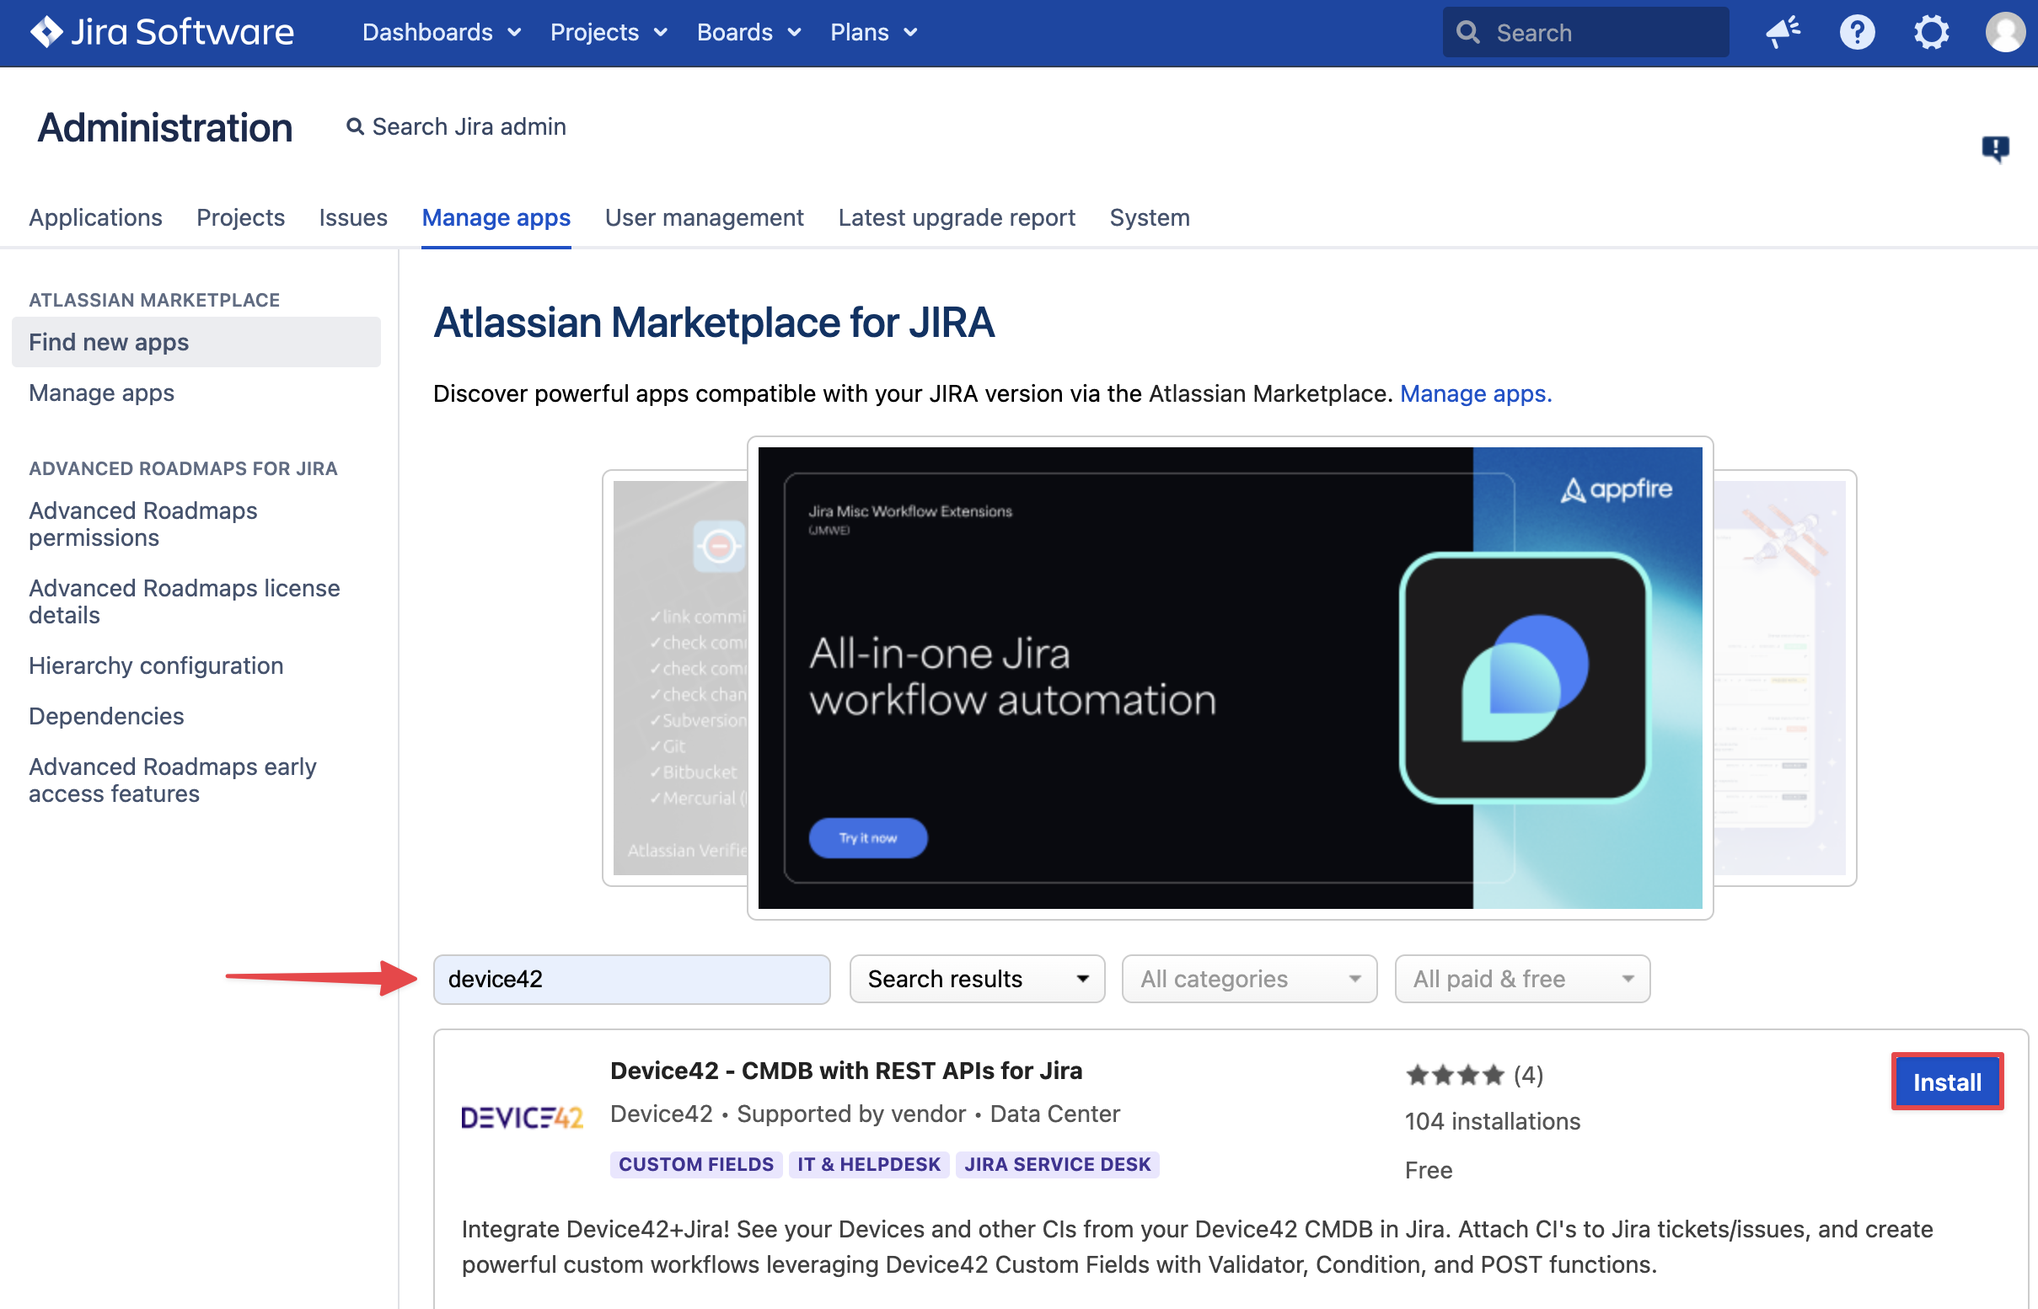
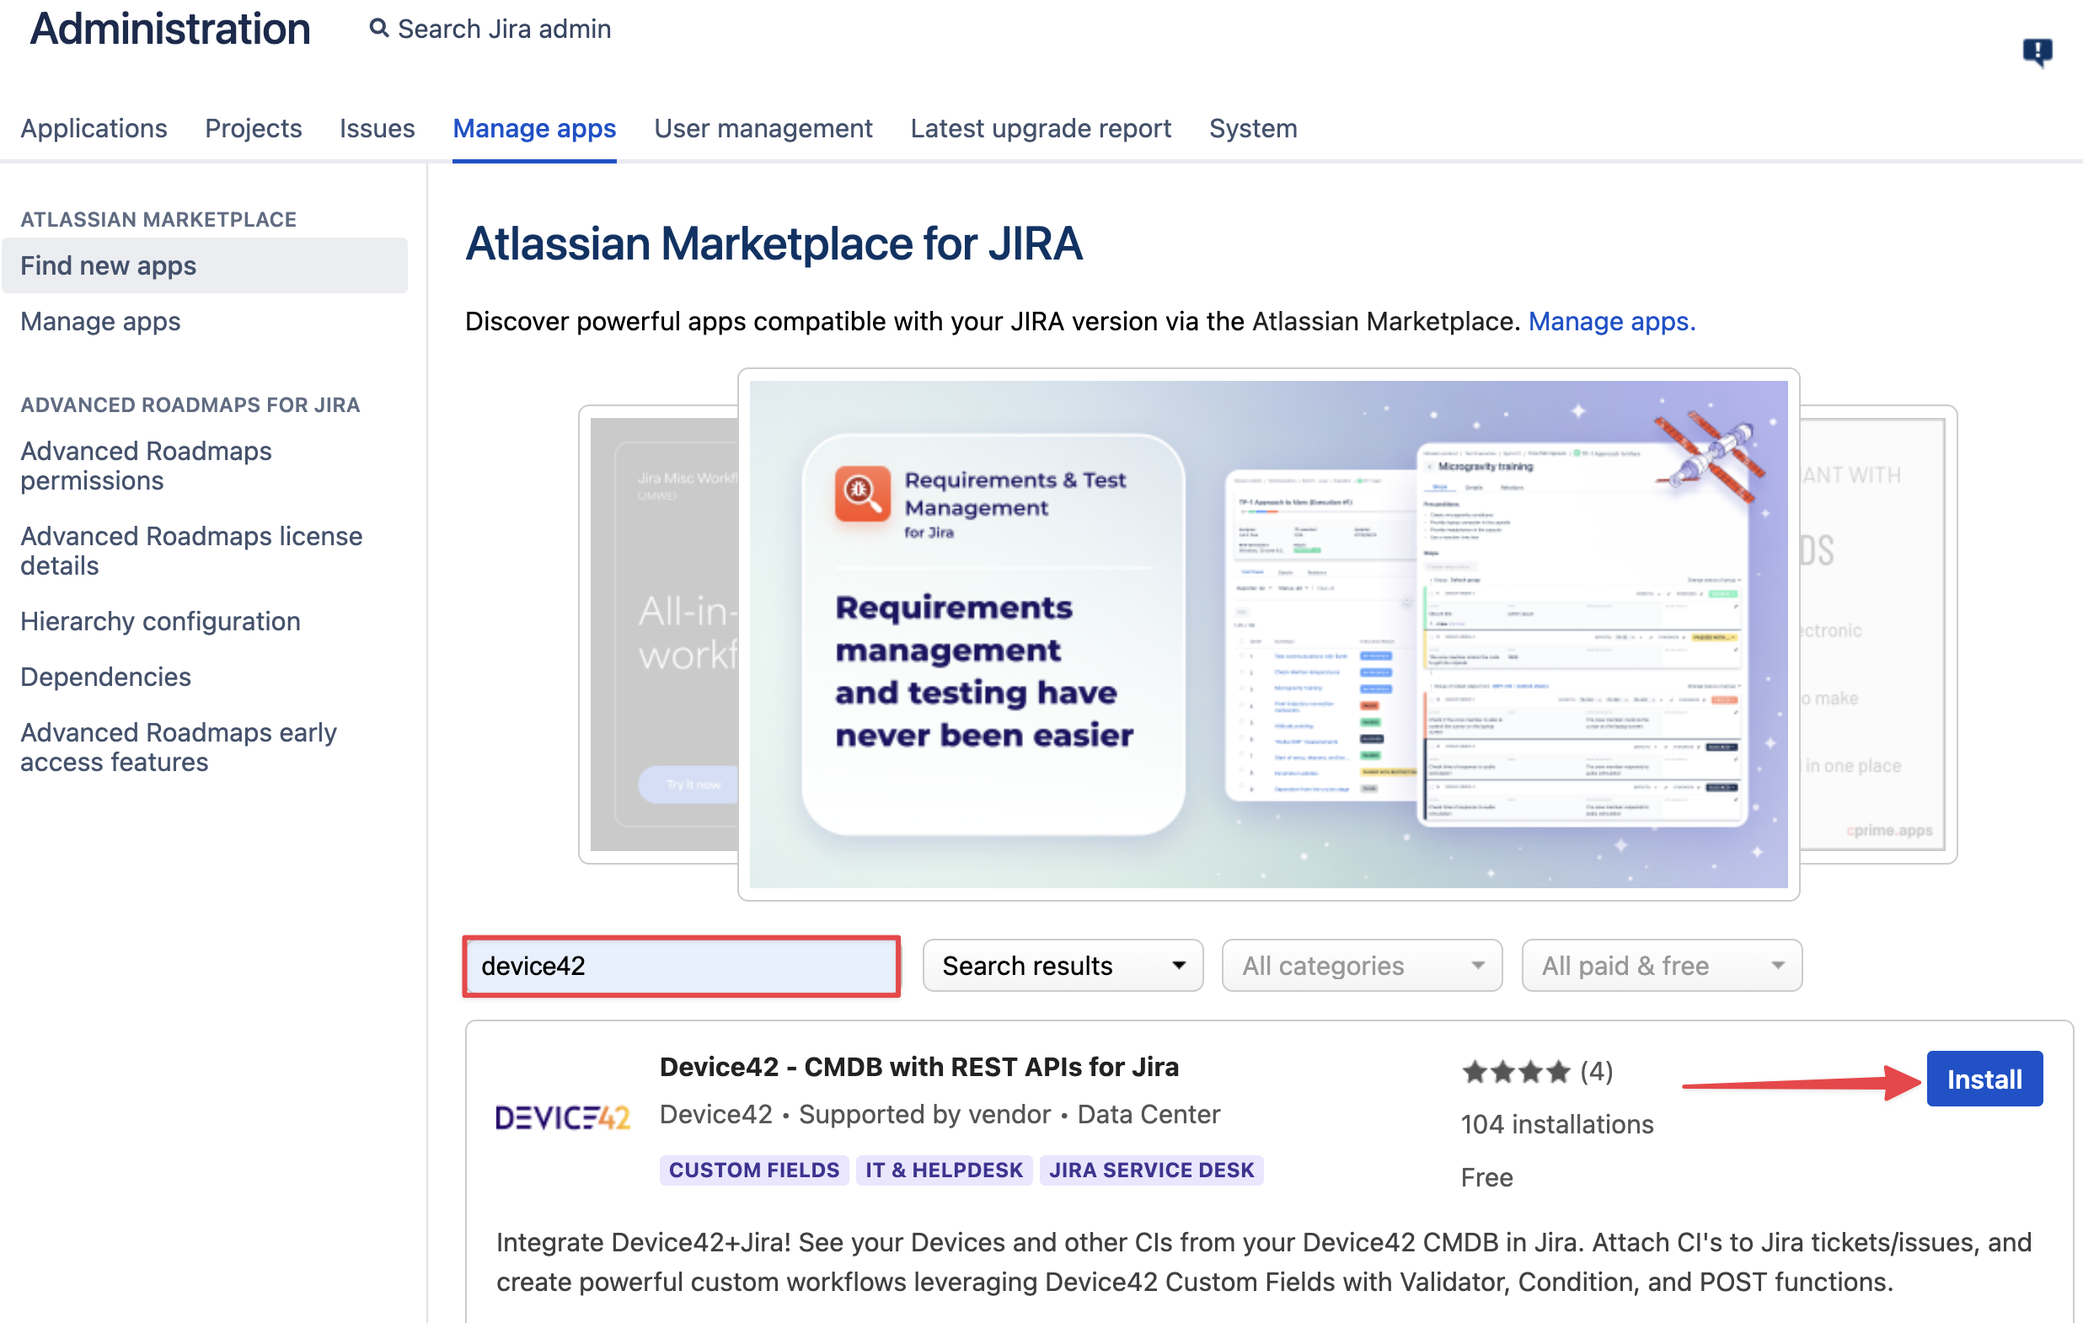
update images and of first two sections

diff --git a/docs/integration/external-integrations/device42-jira-integration.md b/docs/integration/external-integrations/device42-jira-integration.md
@@ -4,15 +4,15 @@ sidebar_position: 15
 ---
 
 :::info
-Atlassian Server is in the process of being [discontinued](https://www.atlassian.com/blog/platform/atlassian-server-is-going-away-next-steps) and the future of self-managed products is with [Atlassian Data Center](https://www.atlassian.com/enterprise/data-center).
+Atlassian Server is in the process of being [discontinued](https://www.atlassian.com/blog/platform/atlassian-server-is-going-away-next-steps) and the future of self-managed products is via the [Atlassian Data Center](https://www.atlassian.com/enterprise/data-center).
 :::
 
 ### Integration Prerequisites
 
-To use the Device42-Jira integration, users must have:
+To use the self-hosted Device42-Jira integration, users must have:
 
-- **Device42** virtual appliance, running, properly configured, and populated with CIs (to sync to Jira) 
-- **Jira instance _\[Server, self-hosted for this version\]_**, properly configured, with the Device42 plugin installed.
+* A running **Device42** virtual appliance, populated with configuration items (CIs) to sync to Jira.
+* A properly configured **self-hosted Jira instance** with administrator access.
 
 _*If you are looking to integrate Device42 with Jira Service Management and/or Jira Cloud, see the [Device42-Jira Service Management/Cloud integration page.](device42-jira-cloud-integration.mdx)_
 
@@ -20,145 +20,142 @@ _*If you are looking to integrate Device42 with Jira Service Management and/or J
 
 The Device42-Jira integration offers users the following functionality:
 
-- Synchronize select Device42 data with Jira, automatically (and/or manually)
-- Attach configuration items synced from Device42 to Jira issues
-- Search for Jira issues relating to a Device42 CI(s) and/or CI data
-- Create custom fields and apply them to specific projects, create custom field sets, and populate custom fields using built-in stackable filters to create a customized set of Device42 CIs.
-- Store filter templates for the fast future usage
-- Automate common IT workflow with validators and conditional functions, based on the Device42 custom field values
-- Automatically request the next free IP address on a subnet, and acquire it when an issue transitions
+* Synchronize select Device42 data with Jira, automatically (and/or manually)
+* Attach configuration items synced from Device42 to Jira issues
+* Search for Jira issues relating to a Device42 CI(s) and/or CI data
+* Create custom fields and apply them to specific projects, create custom field sets, and populate custom fields using built-in stackable filters to create a customized set of Device42 CIs.
+* Store filter templates for the fast future usage
+* Automate common IT workflow with validators and conditional functions, based on the Device42 custom field values
+* Automatically request the next free IP address on a subnet, and acquire it when an issue transitions
 
 * * *
 
 ## Installing the Device42 Jira add-on
 
-The Device42 add-on is the part of Atlassian Marketplace, so you can easily install it using the UPM \[Universal Plugin Manager\]. The add-on’s search capability is provided by Jira from the Jira search box. However, if you have some specific environment that blocks Jira from access to the internet it is possible to install Device42 plugin manually. Please note that the plugin requires a stable connection between the server hosting your Jira application instance, and your Device42 application instance to operate properly.
+The Device42 app is the part of Atlassian Marketplace, so you can easily install it using the Universal Plugin Manager (UPM). The app's search capability is provided by Jira from the Jira search box. However, if you have some specific environment that blocks Jira from accessing the internet, you can install Device42 plugin manually. Please note that the plugin requires a stable connection between the server hosting your Jira application instance, and your Device42 application instance to operate properly.
 
-_It can also be downloaded from the Device42 Integrations Page:_
-
-> [https://www.device42.com/integrations/jira/](https://www.device42.com/integrations/jira/)
+The app can be downloaded from the [Atlassian Marketplace](https://marketplace.atlassian.com/apps/1213601/device42-cmdb-with-rest-apis-for-jira?hosting=datacenter&tab=overview)
 
 ### Automatic installation
 
-_To install the add-on:_
+To install the app from your Jira instance:
 
 1. Log in as a user with the **'Jira System Administrators'** global permission.
-2. From the Jira administration console, click the **Add-ons**. Select _Find add-ons_.
-3. In the search field type _'Device42'_ and press **'Enter'**.See screenshot:
+2. From the Jira administration console, select the **Manage apps** option and in the left panel, click on **Find new apps**.
 
-![01_install_addon.png](/assets/images/1160955568-01_install_addon.png)
-![Search for app in Jira](/assets/images/jira-self-managed/automatic-installation-menu.png)
+    ![Manage apps menu](/assets/images/jira-self-managed/manage-apps-menu.png)
 
-4. Click the _'Install'_ button
-5. A confirmation message appears when the add-on is successfully installed. You can now manage the add-on from the user installed add-on list on the Manage add-ons page.
+3. Type **device42** in the search bar and press **Enter**.
+4. Find the **Device42 - CMDB with REST APIs for Jira** app and click its **Install** button.
+
+    ![Search for app in Jira](/assets/images/jira-self-managed/automatic-installation-menu.png)
+
+5. A confirmation message appears when the app is successfully installed. You can now manage the app from the **Manage apps** tab.
 
 ### Manual installation
 
-_To install the add-on:_
+To manually install the app to your Jira instance:
 
-1. Download the latest version of add-on from the link. If you don't have an internet connection available (i.e. a secured sandbox environment), you can download the JAR file on a network with internet access, and transfer it via an USB thumb drive or other external media.
+1. Go to the [Atlassian Marketplace](https://marketplace.atlassian.com/apps/1213601/device42-cmdb-with-rest-apis-for-jira?tab=overview&hosting=datacenter) and lick on the **Get it now** button to download the `.jar` file of the latest version of the app. If you don't have an internet connection available (i.e. a secured sandbox environment), you can download the `.jar` file on a network with internet access, and transfer it via a USB thumb drive or other external media.
 
     ![Download .jar file](/assets/images/jira-self-managed/manual-download-jar.png)
 
-2. Log in as a user with 'Jira System Administrators' global permission.
-3. From the Jira administration console, click the Add-ons. Select Manage add-ons.
-4. Click the Upload add-on link at the top right side of the page. The following dialog appears:
+2. Log in with Jira administrator access and click on the **Manage Apps** tab, and select the **Manage apps** from the left panel.
+3. Click on the **Upload app** link at the top right side of the page. The following dialog appears:
 
-    ![jira-connector-002.png](/assets/images/2796820748-jira-connector-002.png)
-    ![Upload app](/assets/images/jira-self-managed/manual-choose-file.png)
+    ![Upload app](/assets/images/jira-self-managed/manual-choose-jar-file.png)
 
-5. Enter the location of the JAR file (downloaded in step 1) to upload using the file browser or by specifying a network location by entering a URI.
-6. Click Upload. A confirmation message appears when the add-on is successfully installed. You can now manage the add-on from the user installed add-on list on the Manage add-ons page.
+4. Click on the **Choose file** button to open file browser and select the `.jar` file you downloaded from the Atlassian Marketplace.
+5. Click on the **Upload** button. When the app has been successfully installed, a confirmation notice will appear. 
 
     ![Installation success confirmation](/assets/images/jira-self-managed/manual-confirmation.png)
+
+You can now manage the app from the user installed app list from the **Manage apps** tab.
 
 * * *
 
 ## Configure the Integration
 
-_To configure the Jira add-on:_
+A brand new installation of the app in requires the following initial configuration steps from your Jira instance:
+
+1. After the app has been successfully installed, click on the **Configure** link to setup connection to your Device42 instance.
+
+    ![Initial connection config](/assets/images/jira-self-managed/initial-configuration.png)
+
+2. Enter your Device42 **Base URL**, **Username**, and **Password** and click on the **Save** button. 
+
+    ![Initial connection config](/assets/images/jira-self-managed/fill-connection-form.png)
+
+3. If the connection is successful, you will see the saved details on the configuration view screen.
+
+    ![Initial connection config](/assets/images/jira-self-managed/base-connection-info.png)
+
+### Edit Connection Settings
+
+To edit the connection settings:
 
 1. Log in as a user with 'Jira Administrators' global permission.
-2. From the Jira Administration Console, click ‘_Add-ons’_.
-3. Select DEVICE42 CONNECTOR > Device42 Connection to open the configuration page.
-    
-    ```
-    Keyboard shortcut: g + g + start typing Device42. You will see the configuration screen and would be able to execute configuration actions.
-    ```
-    
-    Initially the configuration shows only links for the base configuration of the plugin:
-    
-    ![03_config_addon.png](/assets/images/3788493776-03_config_addon.png)
-    ![Initial connection config](/assets/images/jira-self-managed/connection-settings.png)
+2. Use the shortcut to navigate to the **Device42 Connection** page. Press **g** twice and type **Device42** into the search bar. Select the **Device42 Connection** option. Alternatively, click on the **Manage apps** tab and select the **Device42 Connection** option from the left sidebar.
 
-### Set up the Device42 connection
+    ![Connection shortcut menu and search bar](/assets/images/jira-self-managed/gg-shortcut.png)
 
-1. On the configuration page click Edit or follow the Configure link to setup connection to Device42 instance._The following page opens:_
+3. Click on the pencil icon to the right to open the connection information form for editing. 
 
-    ![02_config_addon.png](/assets/images/245683236-02_config_addon.png)
-    ![Initial connection config](/assets/images/jira-self-managed/connection-edit.png)
-
-2. Enter the connection information
-3. Click 'Save'.
-4. You will see the saved details on the configuration view screen
+    ![Edit Device42 Connection](/assets/images/jira-self-managed/d42-connection-edit.png)
 
 ### Manual Synchronization
 
-The data from the Device42 instance is cached inside the internal Jira database. To ensure it is up-to-date, it should be periodically synchronized. To manually perform an immediate synchronization:
+The data from the Device42 instance is cached inside the internal Jira database. To ensure it is up-to-date, it should be periodically synchronized.  Manually perform an immediate synchronization as follows:
 
-1. On the configuration information page, simply click the _'Update Data'_ button
-2. A confirmation dialog will appear; Press the _'Update Data'_ button on that dialog to confirm.
+1. On the configuration information page, click on the **Update Data** button.
 
-    ![Synchronize manually](/assets/images/3663324212-29_manual_scan_start.png)
+    ![Update data button](/assets/images/jira-self-managed/update-data-button.png)
+
+2. A confirmation dialog will appear; click on the **Update Data** button to confirm.
+
     ![Initial connection config](/assets/images/jira-self-managed/update-data-confirm.png)
 
-3. The dialog will be closed and you will see current collection statistics data (for manual scan you will see the warning message that scan is pending to be started that is shown for about 15 seconds)
+3. You will see the initial collection statistics data. For a manual scan, you will see the warning message that scan is pending to be started that is shown for about 15 seconds.
 
-    ![Manual Scan Init](/assets/images/1071301296-30_manual_scan_init.png) 
-    ![Manual Scan Progress](/assets/images/74876009-31_manual_scan_progress.png)
-
-    ![Initial scan statistics](/assets/images/jira-self-managed/initial-collection-statistics.png)
     ![Statistics when scan in progress](/assets/images/jira-self-managed/scan-in-progress.png)
 
-4. If you wish to stop current scan you can abort the scan. Click the 'Abort' button and confirm the abort. Please note, that the currently scanned Configuration Item list will be synchronized partially.
+4. Click on the **Refresh** button. Under **Collection results** you can see a progress bar for the entire scan and below that selection, under the **Status** column, you can view the sync progress of individual CIs. 
 
-    ![Abort Scan](/assets/images/3166586938-32_manual_scan_abort.png)
+5. If you wish to stop current scan you, click the **Abort** button, tick the **I agree** checkbox and select **Abort** to confirm. Please note, that the currently scanned Configuration Item list will be synchronized partially.
+
     ![Abort scan confirmation](/assets/images/jira-self-managed/abort-scan-confirmation.png)
 
-5. You will see current scan statistics on the main screen (it could be started manually or automatically). After the synchronization completed the warning message will disappear
+6. After the synchronization is complete, the warning message will disappear and the status of individual CIs will be listed as **Done**. 
 
-    ![Scan Complete Statistics](/assets/images/950194180-33_manual_scan_ready.png)
     ![Abort scan confirmation](/assets/images/jira-self-managed/sync-complete.png)
 
 ### Configure automatic synchronization
 
-Automatic sync/updates are configured using regular **Cron Expressions**, which you are likely already familiar with.
+:::tip
+Automatic sync updates are configured using regular **cron expressions**. Visit [this tutorial](http://www.quartz-scheduler.org/documentation/quartz-2.3.0/tutorials/tutorial-lesson-06.html) for a quick explanation of cron expressions. 
+:::
 
-> Cron expression rules you can see [here](http://www.quartz-scheduler.org/documentation/quartz-2.3.0/tutorials/tutorial-lesson-06.html).
+1. From the **Device42 Connection** tab, where the sync statistics are listed, click on the '**Setup Cron** button.
+2. Enter the cron expression inside the cron configuration dialog box. In this example, the cron expression `0 0 0 1/1 * ? *` means "00:00:00 (midnight) every day".
 
-1. On the configuration information click 'Setup Cron' button
-2. Enter the cron expression rule inside the cron configuration dialog
+    ![Setup cron job](/assets/images/jira-self-managed/setup-cron-job.png)
 
-    ![05_setup_cron.png](/assets/images/1830417591-34_cron_setup.png)
-    ![Setup cron job](/assets/images/jira-self-managed/setup-cron.png)
+3. Click on the **Save** button
+4. You will see the **Next Update Time** listed on the configuration view screen below your username.
 
-3. Click 'Save' button
-4. You will see the saved details on the configuration view screen
+    ![Next update time](/assets/images/jira-self-managed/cron-next-update.png)
 
-### Delete plugin data
+### Delete App Data
 
-If you wish to clear up the plugin data, you can use the _‘Delete plugin data’_ functionality. There are two different options for plugin data cleanup for Jira. 'Connection' option remove connection settings, all filter data, scan results for the configuration items. The 'All' option will remove custom fields and their data additionally. To delete the plugin data:
+If you wish to clear up the app data, select one of the two delete options in Jira as follows:
 
-1. Click the 'Delete' icon.
-2. Select one of the option 'Connection' or 'All'
+1. Click on the **X** icon at the top right of the **Connection Settings** page.
+2. Select either the **Connection** or **All** option. The **Connection** option removes your connection settings, all filter data, and scan results of the configuration items. The **All** option deletes all data including custom field entries.
     
-    ![Delete Data](/assets/images/1680748251-35_delete_start.png)
     ![Delete plugin data options](/assets/images/jira-self-managed/delete-plugin-data-options.png)
 
-3. In the opened dialog select the confirmation checkbox
-4. Click the 'Delete' button
+3. Check the **I agree** confirmation checkbox and click on the **Delete** button to confirm. Note that selecting the **Delete D42 Schema** will require you to import the default schema again.
 
-    ![Delete Confirm](/assets/images/1693541312-36_delete_finish.png)
     ![Delete data confirm](/assets/images/jira-self-managed/delete-data-confirm.png)
 
 * * *
@@ -176,8 +173,9 @@ _To create a new custom field Device42 Custom Field:_
     [Keyboard shortcut: g + g + start typing custom fields.]
     ```
     
-3. Click the "Add Custom Field" button, the following dialog will be displayed:![Add Custom Field](/assets/images/1375163554-003.png)By default, this dialog displays the Standard, or most common choices for custom fields. Click on the All or Advanced option in the left navigation to access to all custom fields.
-4. In the list, look for **Device42 Custom Field**, or type **Device42** in the top right search box and select the custom field:
+3. Click the "Add Custom Field" button, the following dialog will be displayed:
+4. By default, this dialog displays the Standard, or most common choices for custom fields. Click on the All or Advanced option in the left navigation to access to all custom fields.
+5. In the list, look for **Device42 Custom Field**, or type **Device42** in the top right search box and select the custom field:
 
 ![Look for Device42 Custom Field](/assets/images/2411859984-06_custom_field.png)
 
